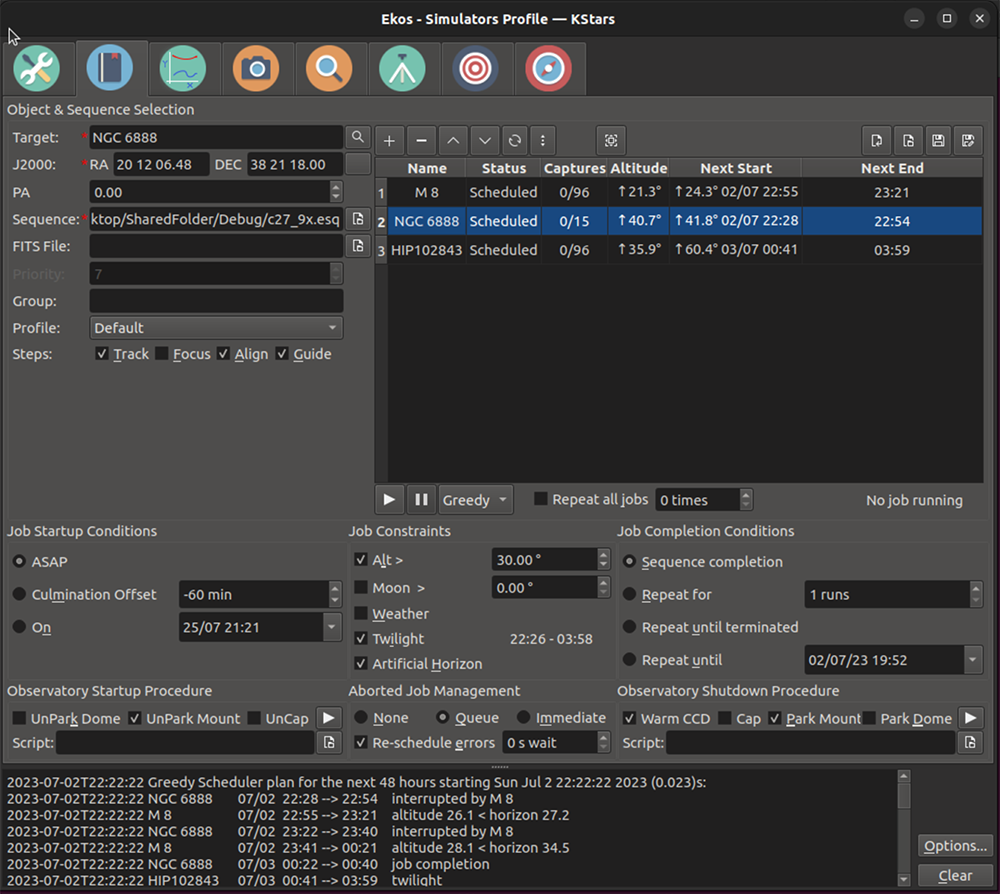
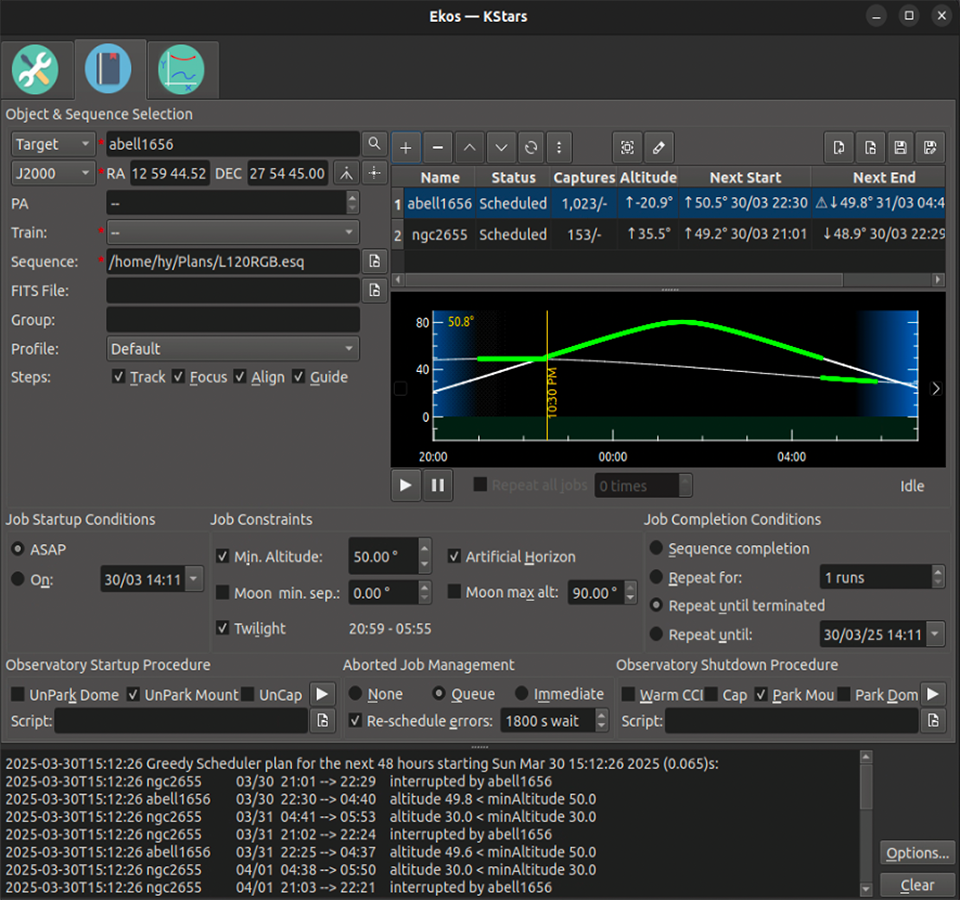
Add ekos scheduler graph to scheduler doc

diff --git a/user_manual/ekos-scheduler.rst b/user_manual/ekos-scheduler.rst
@@ -58,6 +58,34 @@ Scheduler Table
                   ``checkmark``), and the new attributes are assigned to
                   that job.
 
+.. _ekos-scheduler-scheduler-graph:
+
+Scheduler Graph
+=================   
+
+            Associated with the scheduler table is a graph that represents
+            the planned execution of scheduler jobs. Each graph line
+            corresponds to a row in the scheduler table, plotting that scheduler
+            job's altitude as a function of time for tonight.
+
+               -  If a job is scheduled to run tonight, its graph line is
+                  highlighted in green during its expected run times.
+
+               -  There are arrows to the right (and possibly) left of the graph
+                  to change the display to "tomorrow night" and "the night after",
+                  or to move it back to the current night.
+
+               -  If you click on a scheduler table row, the associated graph
+                  line is highlighted. One can also identify graph lines by
+                  hovering the mouse over them.
+
+               -  Clicking in the graph will display the time and altitude
+                  for the selected scheduler job.
+
+               -  The scheduler graph can be expanded or diminished by using
+                  the mouse to grab and drag the dotted separator between the
+                  scheduler graph and scheduler table.
+
 .. _ekos-scheduler-scheduling-algorithm:
 
 Scheduling Algorithm
